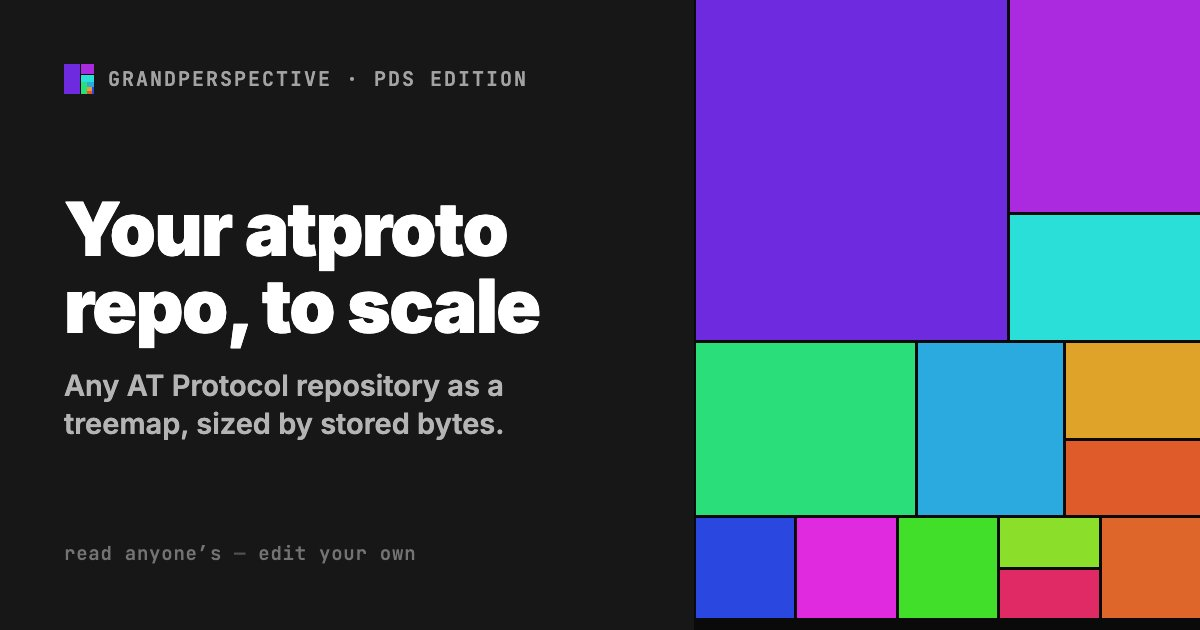
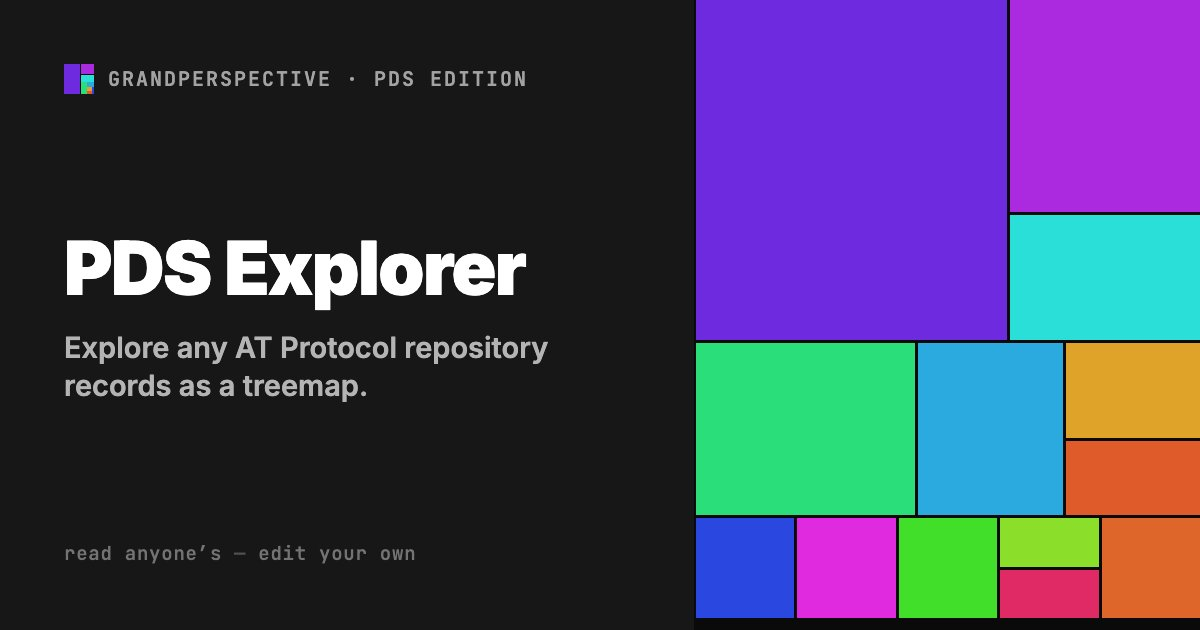
feat(meta): rebrand link preview to "PDS Explorer"
Update the OG template headline/subtitle and re-render og-default.jpg, and
sync the og:/twitter: title, description and image alt so the preview text
matches the new image.

Changed region(s): [[0.0308, 0.3016, 0.4625, 0.6333], [0.0308, 0.6635, 0.4317, 0.6937]]

diff --git a/og-templates/og-default.html b/og-templates/og-default.html
@@ -1,9 +1,11 @@
 <!DOCTYPE html>
 <html>
-<head>
-  <meta charset="utf-8">
-  <link href="https://fonts.googleapis.com/css2?family=Inter:wght@600;700;900&family=JetBrains+Mono:wght@500;600&display=swap" rel="stylesheet">
-  <style>
+  <head>
+    <meta charset="utf-8">
+    <link
+      href="https://fonts.googleapis.com/css2?family=Inter:wght@600;700;900&family=JetBrains+Mono:wght@500;600&display=swap"
+      rel="stylesheet">
+    <style>
     * { margin: 0; padding: 0; box-sizing: border-box; }
     /* International Style, applied to data — the app's own constraints:
        no rounded corners, no shadows, no gradients. Chroma belongs to the
@@ -62,64 +64,80 @@
     .strip { display: flex; gap: 3px; }
     .strip .b { flex: 1; }
   </style>
-</head>
-<body>
-  <div class="panel">
-    <div class="top">
-      <!-- the app's own mark: a miniature treemap -->
-      <svg class="mark" viewBox="0 0 64 64" shape-rendering="crispEdges">
-        <rect width="64" height="64" fill="#0a0a0a"/>
-        <rect x="0" y="0" width="34.84" height="63" fill="hsl(262.6 74% 52%)"/>
-        <rect x="35.84" y="0" width="27.16" height="21.75" fill="hsl(282.7 74% 52%)"/>
-        <rect x="35.84" y="22.75" width="27.16" height="15.55" fill="hsl(177.6 74% 52%)"/>
-        <rect x="35.84" y="39.29" width="12.31" height="23.71" fill="hsl(146.2 74% 52%)"/>
-        <rect x="49.15" y="39.29" width="13.85" height="9.55" fill="hsl(197.7 74% 52%)"/>
-        <rect x="49.15" y="49.84" width="9.93" height="7.72" fill="hsl(40.1 74% 52%)"/>
-        <rect x="49.15" y="58.56" width="9.93" height="4.44" fill="hsl(16.3 74% 52%)"/>
-        <rect x="60.09" y="49.84" width="2.91" height="13.16" fill="hsl(230.1 74% 52%)"/>
-      </svg>
-      <span class="eyebrow">GrandPerspective · PDS edition</span>
+  </head>
+  <body>
+    <div class="panel">
+      <div class="top">
+        <!-- the app's own mark: a miniature treemap -->
+        <svg class="mark" viewBox="0 0 64 64" shape-rendering="crispEdges">
+          <rect width="64" height="64" fill="#0a0a0a" />
+          <rect x="0" y="0" width="34.84" height="63"
+            fill="hsl(262.6 74% 52%)" />
+          <rect x="35.84" y="0" width="27.16" height="21.75"
+            fill="hsl(282.7 74% 52%)" />
+          <rect x="35.84" y="22.75" width="27.16" height="15.55"
+            fill="hsl(177.6 74% 52%)" />
+          <rect x="35.84" y="39.29" width="12.31" height="23.71"
+            fill="hsl(146.2 74% 52%)" />
+          <rect x="49.15" y="39.29" width="13.85" height="9.55"
+            fill="hsl(197.7 74% 52%)" />
+          <rect x="49.15" y="49.84" width="9.93" height="7.72"
+            fill="hsl(40.1 74% 52%)" />
+          <rect x="49.15" y="58.56" width="9.93" height="4.44"
+            fill="hsl(16.3 74% 52%)" />
+          <rect x="60.09" y="49.84" width="2.91" height="13.16"
+            fill="hsl(230.1 74% 52%)" />
+        </svg>
+        <span class="eyebrow">GrandPerspective · PDS edition</span>
+      </div>
+
+      <div>
+        <h1>PDS Explorer</h1>
+        <p class="subtitle">Explore any AT&nbsp;Protocol repository records as a
+          treemap.</p>
+      </div>
+
+      <div class="foot">
+        <span>read anyone&rsquo;s</span><span class="dot">—</span><span>edit
+          your own</span>
+      </div>
     </div>
 
-    <div>
-      <h1>Your atproto repo, to scale</h1>
-      <p class="subtitle">Any AT&nbsp;Protocol repository as a treemap, sized by stored bytes.</p>
-    </div>
-
-    <div class="foot">
-      <span>read anyone&rsquo;s</span><span class="dot">—</span><span>edit your own</span>
-    </div>
-  </div>
-
-  <!-- Treemap: a squarified layout in hsl(H 74% 52%), the app's palette.
+    <!-- Treemap: a squarified layout in hsl(H 74% 52%), the app's palette.
        Areas are proportional the way the real tool draws them: one dominant
        block, then progressively smaller collections. -->
-  <div class="map">
-    <div class="row" style="height:340px;">
-      <div class="b" style="flex:62; background:hsl(262.6 74% 52%);"></div>
-      <div class="col" style="flex:38;">
-        <div class="b" style="height:63%; background:hsl(282.7 74% 52%);"></div>
-        <div class="b" style="height:37%; background:hsl(177.6 74% 52%);"></div>
+    <div class="map">
+      <div class="row" style="height:340px;">
+        <div class="b" style="flex:62; background:hsl(262.6 74% 52%);"></div>
+        <div class="col" style="flex:38;">
+          <div class="b"
+            style="height:63%; background:hsl(282.7 74% 52%);"></div>
+          <div class="b"
+            style="height:37%; background:hsl(177.6 74% 52%);"></div>
+        </div>
+      </div>
+      <div class="row" style="height:172px;">
+        <div class="b" style="flex:44; background:hsl(146.2 74% 52%);"></div>
+        <div class="b" style="flex:29; background:hsl(197.7 74% 52%);"></div>
+        <div class="col" style="flex:27;">
+          <div class="b"
+            style="height:56%; background:hsl(40.1 74% 52%);"></div>
+          <div class="b"
+            style="height:44%; background:hsl(16.3 74% 52%);"></div>
+        </div>
+      </div>
+      <div class="strip" style="height:100px;">
+        <div class="b" style="background:hsl(230.1 74% 52%);"></div>
+        <div class="b" style="background:hsl(300.0 74% 52%);"></div>
+        <div class="b" style="background:hsl(112.0 74% 52%);"></div>
+        <div class="col" style="flex:1;">
+          <div class="b"
+            style="height:50%; background:hsl(88.0 74% 52%);"></div>
+          <div class="b"
+            style="height:50%; background:hsl(340.0 74% 52%);"></div>
+        </div>
+        <div class="b" style="background:hsl(20.0 74% 52%);"></div>
       </div>
     </div>
-    <div class="row" style="height:172px;">
-      <div class="b" style="flex:44; background:hsl(146.2 74% 52%);"></div>
-      <div class="b" style="flex:29; background:hsl(197.7 74% 52%);"></div>
-      <div class="col" style="flex:27;">
-        <div class="b" style="height:56%; background:hsl(40.1 74% 52%);"></div>
-        <div class="b" style="height:44%; background:hsl(16.3 74% 52%);"></div>
-      </div>
-    </div>
-    <div class="strip" style="height:100px;">
-      <div class="b" style="background:hsl(230.1 74% 52%);"></div>
-      <div class="b" style="background:hsl(300.0 74% 52%);"></div>
-      <div class="b" style="background:hsl(112.0 74% 52%);"></div>
-      <div class="col" style="flex:1;">
-        <div class="b" style="height:50%; background:hsl(88.0 74% 52%);"></div>
-        <div class="b" style="height:50%; background:hsl(340.0 74% 52%);"></div>
-      </div>
-      <div class="b" style="background:hsl(20.0 74% 52%);"></div>
-    </div>
-  </div>
-</body>
+  </body>
 </html>

diff --git a/src/app.html b/src/app.html
@@ -38,19 +38,19 @@
 			content="Draw any AT Protocol repository as a treemap sized by stored bytes. Read anyone's repo unauthenticated; edit your own." />
 		<meta property="og:type" content="website" />
 		<meta property="og:url" content="https://pixeline.be/pds-grandperspective/" />
-		<meta property="og:title" content="Your atproto repo, to scale" />
+		<meta property="og:title" content="PDS Explorer" />
 		<meta property="og:description"
-			content="Any AT Protocol repository as a treemap, sized by stored bytes. Read anyone's; edit your own." />
+			content="Explore any AT Protocol repository's records as a treemap." />
 		<meta property="og:image" content="https://pixeline.be/pds-grandperspective/og-default.jpg" />
 		<meta property="og:image:width" content="1200" />
 		<meta property="og:image:height" content="630" />
 		<meta property="og:image:type" content="image/jpeg" />
 		<meta property="og:image:alt"
-			content="A treemap of colored blocks in the GrandPerspective palette, beside the headline 'Your atproto repo, to scale'." />
+			content="A treemap of colored blocks in the GrandPerspective palette, beside the headline PDS Explorer." />
 		<meta name="twitter:card" content="summary_large_image" />
-		<meta name="twitter:title" content="Your atproto repo, to scale" />
+		<meta name="twitter:title" content="PDS Explorer" />
 		<meta name="twitter:description"
-			content="Any AT Protocol repository as a treemap, sized by stored bytes." />
+			content="Explore any AT Protocol repository's records as a treemap." />
 		<meta name="twitter:image" content="https://pixeline.be/pds-grandperspective/og-default.jpg" />
 
 		<link rel="preconnect" href="https://fonts.googleapis.com" />
